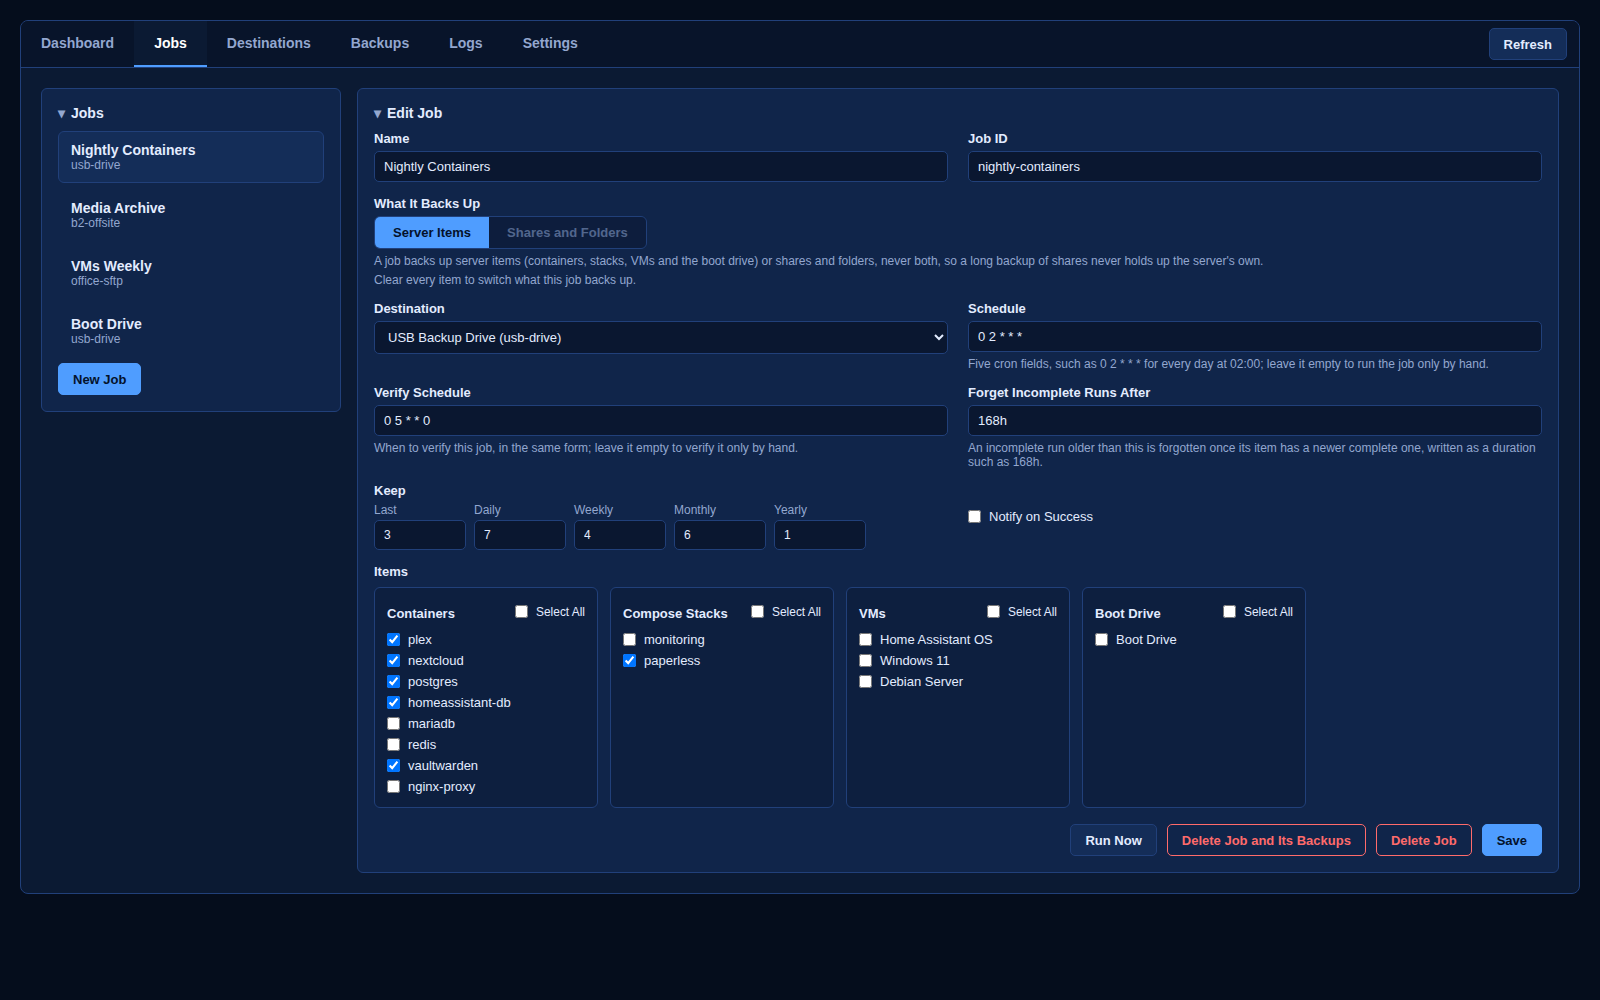
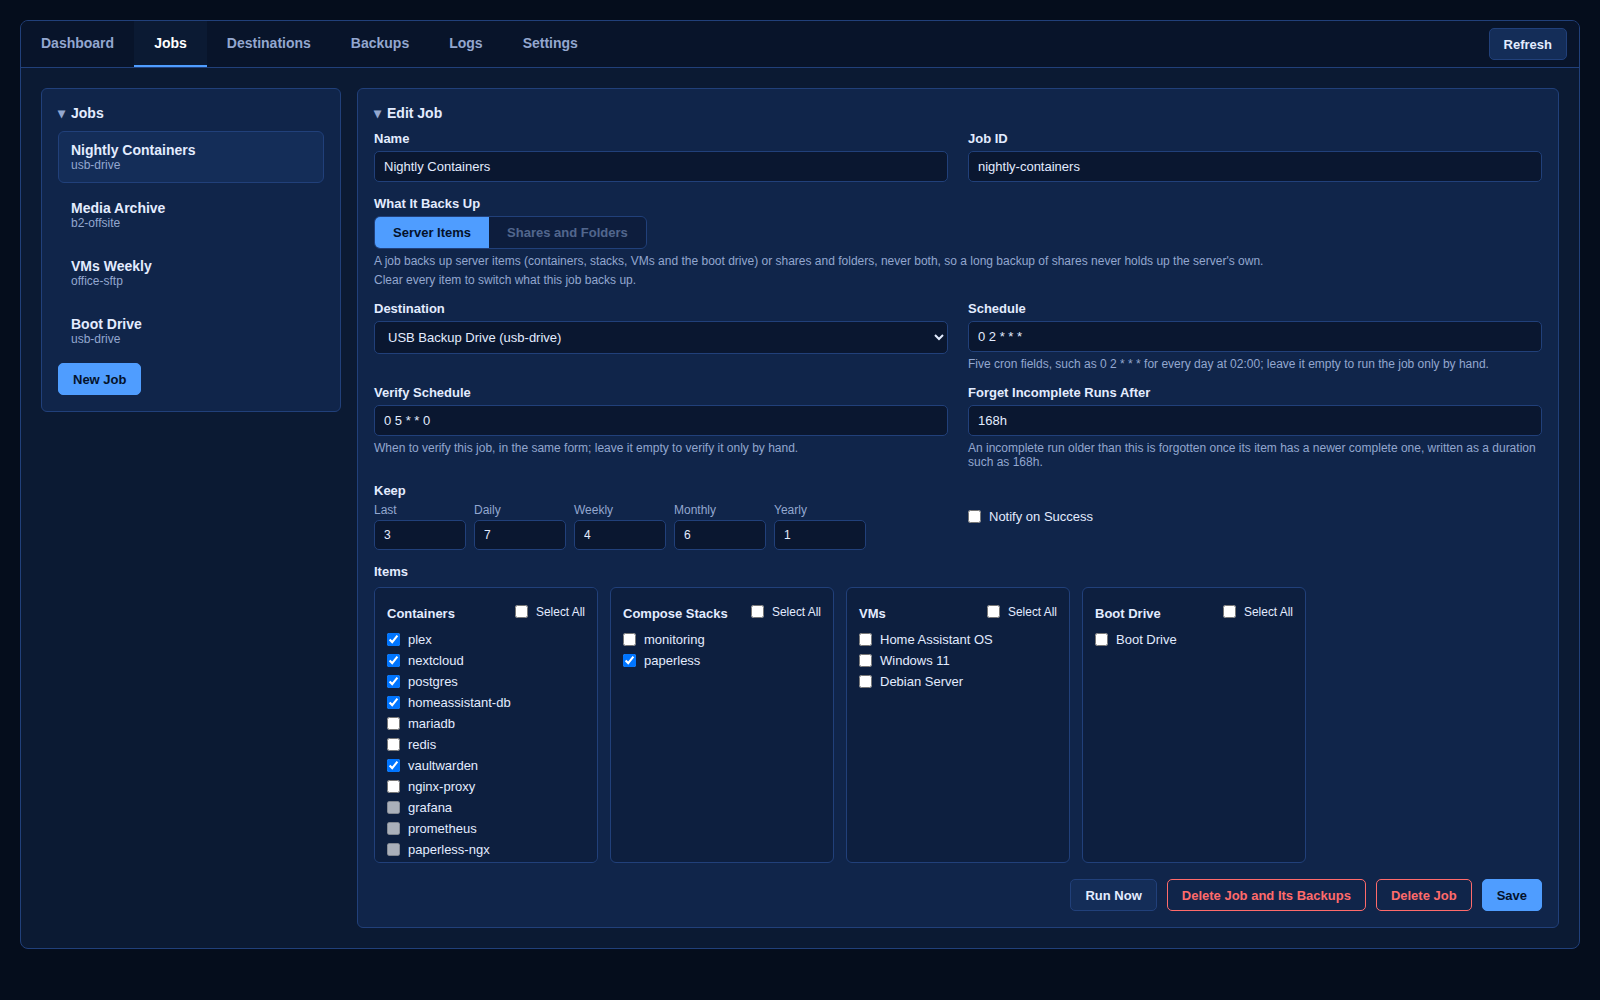
docs: compose stacks backed up whole, the Backups filter and when the current item started, with new screenshots

Changed region(s): [[0.2188, 0.806, 1.0, 0.93]]

diff --git a/README.md b/README.md
@@ -78,6 +78,12 @@ flowchart LR
   after a preview of what it writes over that you confirm. The boot drive, and
   a single VM disk, are only ever staged into a folder; the live ones are never
   written.
+- **A compose stack is backed up whole.** Its containers are read with it,
+  so the Jobs tab greys them and says on hover which stack backs them up. A
+  job that still lists one beside its stack records it as covered by the
+  stack rather than failing it.
+- **Find a backup fast.** The Backups tab filters a job's items by name, and
+  for a job holding several kinds, shows only containers, stacks or VMs.
 - **Restore one item or a whole run.** Pick an item and one of its backups, or
   pick a backup run and tick several of its containers, stacks and VMs to
   restore them one after another, stopping at the first that fails.
@@ -88,7 +94,8 @@ flowchart LR
 - **Long backups share the server.** A first backup of a big share can take
   days. It runs in steps, each saved as a snapshot as it finishes, and gives
   urbk's lock up between steps so the server's own backups still run; the
-  Dashboard shows the step it is on and the bytes backed up so far. Before
+  Dashboard shows the step it is on, the bytes backed up so far, and when the
+  item it is on started as well as the run. Before
   the first upload of a share to a remote destination, urbk estimates its
   size and the time and cost it will take, and waits for you to confirm.
 - **A backup counts once it restores.** Verify reads part of a repository's
@@ -122,7 +129,7 @@ The screenshots show invented jobs, shares and servers, not a real one.
 | Jobs: Server Items | Jobs: Shares and Folders |
 |:---:|:---:|
 | ![Jobs, server items](docs/images/gui-jobs.png) | ![Jobs, shares and folders](docs/images/gui-jobs-shares.png) |
-| Containers, stacks, VMs and the boot drive, with schedule, keep rules and verify schedule | Shares and folders inside them, each with what is left out |
+| Containers, stacks, VMs and the boot drive, with schedule, keep rules and verify schedule; a stack's containers are greyed, since the stack backs them up | Shares and folders inside them, each with what is left out |
 
 | Destinations | Settings |
 |:---:|:---:|
@@ -138,6 +145,11 @@ The screenshots show invented jobs, shares and servers, not a real one.
 |:---:|:---:|
 | ![Boot drive files](docs/images/gui-restore-flash-files.png) | ![Stage a VM disk](docs/images/gui-restore-stage-disk.png) |
 | Browse a boot drive backup and stage only the files you pick | Stage one disk of a VM as an image, on a pool, a drive or an array disk |
+
+| Find a Backup | Restore One Item |
+|:---:|:---:|
+| ![Find a backup](docs/images/gui-restore-filter.png) | ![Restore one item](docs/images/gui-restore-point.png) |
+| Filter a job's items by name, or show only one kind | Pick one of an item's backups; the panel says what the restore does before it does it |
 
 | Delete a Backup | Delete a Job and Its Backups |
 |:---:|:---:|
